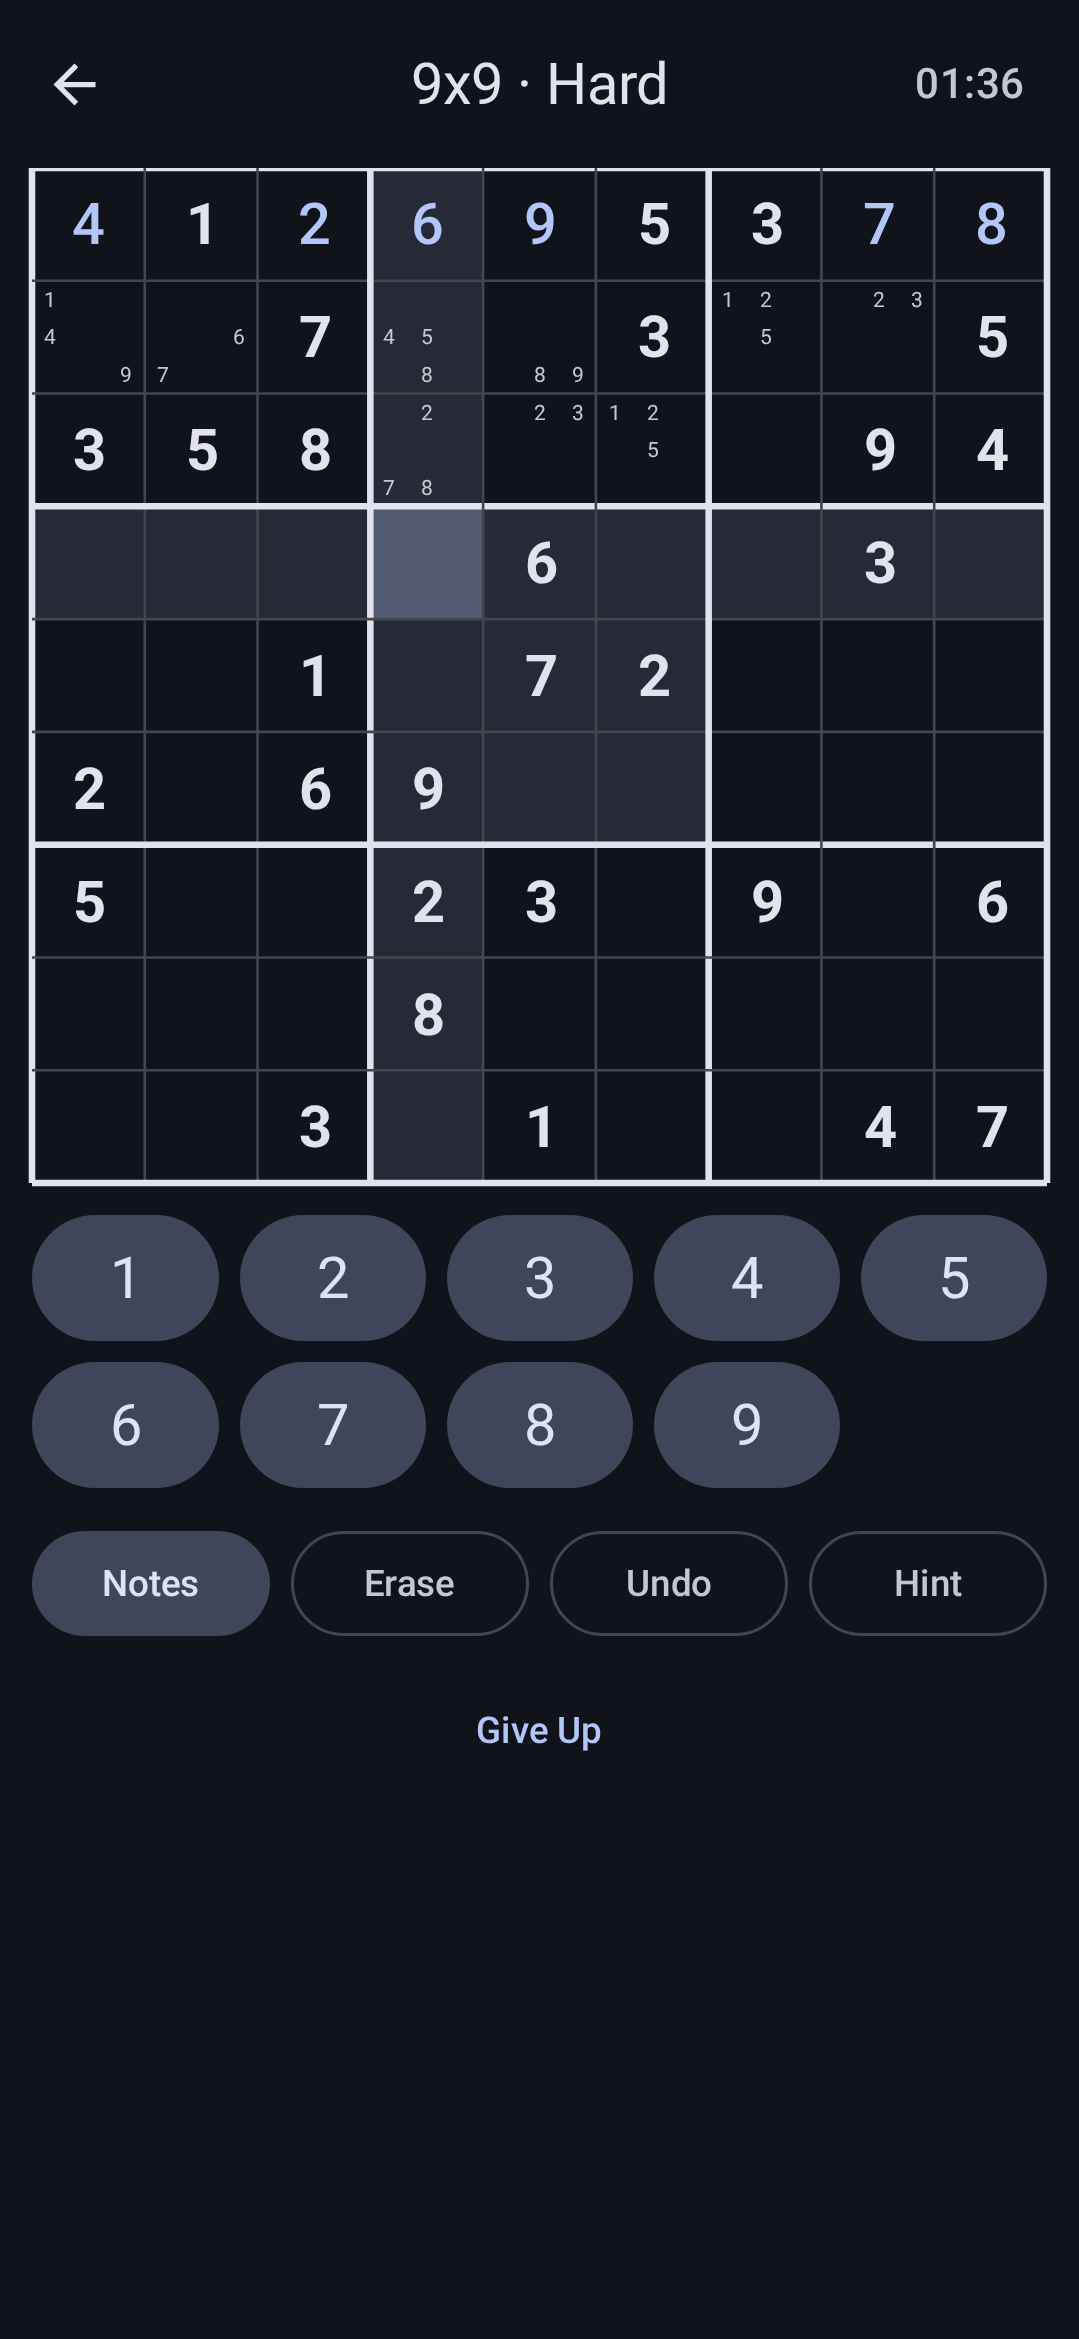
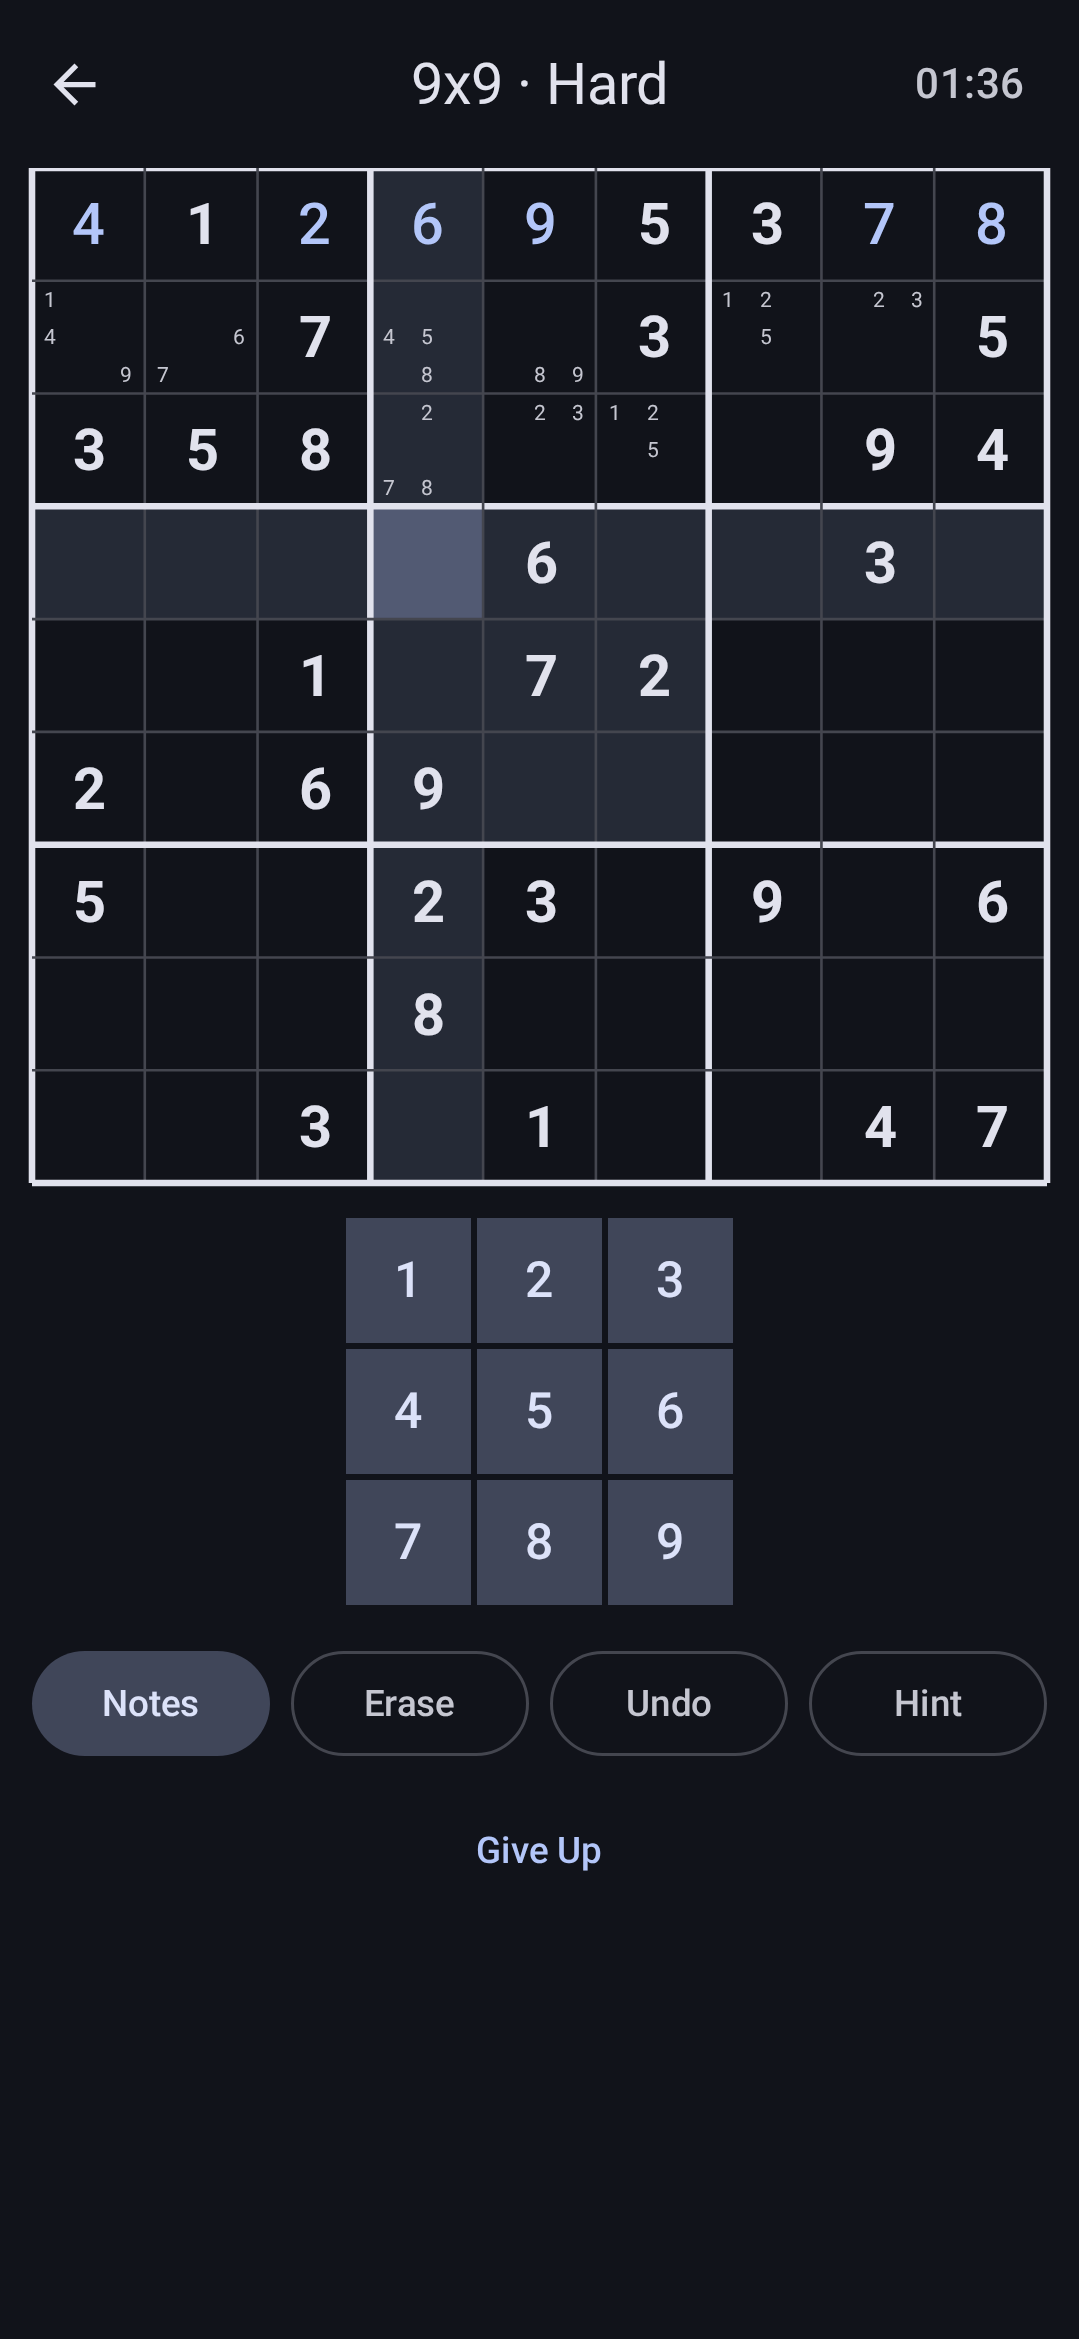
sudoku: replace 4x4 with 12x12 and make the pad a real grid

diff --git a/games/sudoku/src/main/java/com/vayunmathur/games/sudoku/ui/components/NumberPad.kt b/games/sudoku/src/main/java/com/vayunmathur/games/sudoku/ui/components/NumberPad.kt
@@ -1,27 +1,39 @@
 package com.vayunmathur.games.sudoku.ui.components
 
-import androidx.compose.foundation.layout.Arrangement
+import androidx.compose.foundation.border
 import androidx.compose.foundation.layout.Column
+import androidx.compose.foundation.layout.PaddingValues
 import androidx.compose.foundation.layout.Row
-import androidx.compose.foundation.layout.fillMaxWidth
+import androidx.compose.foundation.layout.size
 import androidx.compose.runtime.Composable
+import androidx.compose.ui.Alignment
 import androidx.compose.ui.Modifier
+import androidx.compose.ui.graphics.RectangleShape
+import androidx.compose.ui.unit.dp
 import androidx.compose.ui.unit.sp
 import com.vayunmathur.games.sudoku.data.SudokuGameState
+import com.vayunmathur.games.sudoku.data.sudokuSymbol
 import com.vayunmathur.library.ui.Button
-import com.vayunmathur.library.ui.ButtonDefaults
 import com.vayunmathur.library.ui.FilledTonalButton
 import com.vayunmathur.library.ui.MaterialTheme
-import com.vayunmathur.library.ui.Spacing
 import com.vayunmathur.library.ui.Text
 
 /**
- * The digit keys.
+ * The digit keys, laid out as a grid in the board's own box shape.
  *
- * A digit that has been placed as many times as the board is wide is disabled rather than hidden,
- * so the keys never reflow under the player's thumb mid-game. Notes mode keeps every digit enabled,
- * because a pencil mark for a finished digit is still a legitimate thing to jot down while ruling
- * it out.
+ * Reusing [SudokuGameState.size]'s box geometry means the pad is a miniature of a box — 2x3 for 6x6,
+ * 3x3 for 9x9, 3x4 for 12x12 — so a digit sits in the same relative position on the pad as it does in
+ * the pencil marks.
+ *
+ * Keys are fixed-size squares packed flush against each other rather than stretched across the width:
+ * a full-width grid would give keys around 90dp across on a 12x12, which crowds out the board. A
+ * hairline in the background colour separates them, so the block reads as distinct keys without
+ * needing gaps.
+ *
+ * A digit that has been placed as many times as the board is wide is disabled rather than hidden, so
+ * the keys never reflow under the player's thumb mid-game. Notes mode keeps every digit enabled,
+ * because a pencil mark for a finished digit is still a legitimate thing to jot down while ruling it
+ * out.
  */
 @Composable
 fun NumberPad(
@@ -29,33 +41,21 @@ fun NumberPad(
     onDigit: (Int) -> Unit,
     modifier: Modifier = Modifier,
 ) {
-    val side = game.size.side
-    // 4 and 6 fit one row; 9 splits so the keys stay wide enough to hit.
-    val perRow = if (side > 6) 5 else side
-    Column(modifier, verticalArrangement = Arrangement.spacedBy(Spacing.sm)) {
-        var digit = 1
-        while (digit <= side) {
-            val rowEnd = minOf(digit + perRow - 1, side)
-            Row(
-                Modifier.fillMaxWidth(),
-                horizontalArrangement = Arrangement.spacedBy(Spacing.sm),
-            ) {
-                for (d in digit..rowEnd) {
-                    val exhausted = !game.notesMode && game.placedCount(d) >= side
+    val size = game.size
+    Column(modifier, horizontalAlignment = Alignment.CenterHorizontally) {
+        for (row in 0 until size.boxRows) {
+            Row {
+                for (col in 0 until size.boxCols) {
+                    val digit = row * size.boxCols + col + 1
                     DigitKey(
-                        digit = d,
-                        enabled = !exhausted && !game.isWon,
+                        digit = digit,
+                        enabled = !game.isWon &&
+                            (game.notesMode || game.placedCount(digit) < size.side),
                         highlighted = game.notesMode,
-                        onClick = { onDigit(d) },
-                        modifier = Modifier.weight(1f),
+                        onClick = { onDigit(digit) },
                     )
                 }
-                // Keeps the last row's keys the same width as a full row's.
-                repeat(perRow - (rowEnd - digit + 1)) {
-                    Column(Modifier.weight(1f)) {}
-                }
             }
-            digit = rowEnd + 1
         }
     }
 }
@@ -66,28 +66,34 @@ private fun DigitKey(
     enabled: Boolean,
     highlighted: Boolean,
     onClick: () -> Unit,
-    modifier: Modifier = Modifier,
 ) {
+    val shared = Modifier
+        .size(KeySize)
+        // Drawn in the background colour, so it separates neighbouring keys without adding a gap.
+        .border(HairlineWidth, MaterialTheme.colorScheme.background)
     val label = @Composable {
-        Text(
-            text = digit.toString(),
-            style = MaterialTheme.typography.headlineSmall,
-            fontSize = 22.sp,
-        )
+        Text(text = sudokuSymbol(digit), fontSize = 19.sp)
     }
     if (highlighted) {
         FilledTonalButton(
             onClick = onClick,
-            modifier = modifier,
+            modifier = shared,
             enabled = enabled,
-            contentPadding = ButtonDefaults.TextButtonContentPadding,
+            shape = RectangleShape,
+            contentPadding = PaddingValues(0.dp),
         ) { label() }
     } else {
         Button(
             onClick = onClick,
-            modifier = modifier,
+            modifier = shared,
             enabled = enabled,
-            contentPadding = ButtonDefaults.TextButtonContentPadding,
+            shape = RectangleShape,
+            contentPadding = PaddingValues(0.dp),
         ) { label() }
     }
 }
+
+/** Comfortably above the 48dp touch target once the hairline is accounted for, and no larger. */
+private val KeySize = 50.dp
+
+private val HairlineWidth = 1.dp

diff --git a/games/sudoku/src/main/java/com/vayunmathur/games/sudoku/data/SudokuModels.kt b/games/sudoku/src/main/java/com/vayunmathur/games/sudoku/data/SudokuModels.kt
@@ -5,16 +5,16 @@ import kotlinx.serialization.Serializable
 /**
  * The three board shapes on offer, each with the box geometry that goes with it.
  *
- * [boxRows] x [boxCols] must equal [side], because a Sudoku box has to hold exactly as many cells
- * as a row does — that is what makes "every digit once per box" the same strength of constraint as
- * "every digit once per row". 6x6 is the only asymmetric one (2 rows of 3), which is why the box
+ * [boxRows] x [boxCols] must equal [side], because a Sudoku box has to hold exactly as many cells as a
+ * row does — that is what makes "every digit once per box" the same strength of constraint as "every
+ * digit once per row". Only 9x9 has square boxes; 6x6 uses 2x3 and 12x12 uses 3x4, which is why the box
  * dimensions are stored rather than derived from a square root.
  */
 @Serializable
 enum class BoardSize(val side: Int, val boxRows: Int, val boxCols: Int) {
-    FOUR(4, 2, 2),
     SIX(6, 2, 3),
-    NINE(9, 3, 3);
+    NINE(9, 3, 3),
+    TWELVE(12, 3, 4);
 
     val cellCount: Int get() = side * side
 
@@ -27,13 +27,23 @@ enum class BoardSize(val side: Int, val boxRows: Int, val boxCols: Int) {
 }
 
 /**
+ * The character shown for [digit], which is 1-based.
+ *
+ * Past nine the symbols become letters. A 12x12 cell has to fit a pencil-mark grid of twelve
+ * candidates, and "10", "11", "12" at that size are illegible; one character each keeps both the
+ * entered digit and the marks readable. The solver and generator only ever deal in the numbers.
+ */
+fun sudokuSymbol(digit: Int): String =
+    if (digit <= 9) digit.toString() else ('A' + digit - 10).toString()
+
+/**
  * How many cells the generator leaves filled in.
  *
  * The clue counts are fractions of the board rather than absolute numbers so one difficulty means
- * roughly the same amount of deduction on a 4x4 as on a 9x9. [clueFraction] is a target, not a
- * guarantee: digging stops early if removing any remaining clue would leave the puzzle with more
- * than one solution, so an EXPERT 4x4 often lands well above its target simply because tiny grids
- * run out of removable cells.
+ * roughly the same amount of deduction on a 6x6 as on a 12x12. [clueFraction] is a target, not a
+ * guarantee: digging stops early if removing any remaining clue would leave the puzzle with more than
+ * one solution, so a small board often lands well above its target simply because it runs out of
+ * removable cells.
  */
 @Serializable
 enum class Difficulty(val clueFraction: Double) {

diff --git a/games/sudoku/src/main/java/com/vayunmathur/games/sudoku/ui/components/SudokuGrid.kt b/games/sudoku/src/main/java/com/vayunmathur/games/sudoku/ui/components/SudokuGrid.kt
@@ -27,6 +27,7 @@ import androidx.compose.ui.unit.sp
 import com.vayunmathur.games.sudoku.R
 import com.vayunmathur.games.sudoku.data.BoardSize
 import com.vayunmathur.games.sudoku.data.SudokuGameState
+import com.vayunmathur.games.sudoku.data.sudokuSymbol
 import com.vayunmathur.library.ui.MaterialTheme
 import com.vayunmathur.library.ui.Text
 import androidx.compose.ui.res.stringResource
@@ -113,7 +114,7 @@ private fun SudokuCell(
     // wrong-cell colour because a wrong digit is refused rather than written.
     val digitColor = if (given) scheme.onSurface else scheme.primary
 
-    val spoken = if (value == 0) stringResource(R.string.cd_empty) else value.toString()
+    val spoken = if (value == 0) stringResource(R.string.cd_empty) else sudokuSymbol(value)
     val side = game.size.side
     val description =
         stringResource(R.string.cd_cell, index / side + 1, index % side + 1, spoken)
@@ -125,7 +126,7 @@ private fun SudokuCell(
     ) {
         when {
             value != 0 -> Text(
-                text = value.toString(),
+                text = sudokuSymbol(value),
                 color = digitColor,
                 // Sized from the cell so a 4x4 does not render tiny digits in large squares.
                 fontSize = (game.size.digitScale * 22).sp,
@@ -166,7 +167,7 @@ private fun NoteMarks(size: BoardSize, mask: Int) {
                     ) {
                         if (mask and (1 shl (digit - 1)) != 0) {
                             Text(
-                                text = digit.toString(),
+                                text = sudokuSymbol(digit),
                                 color = MaterialTheme.colorScheme.onSurfaceVariant,
                                 fontSize = (size.digitScale * 8).sp,
                                 lineHeight = (size.digitScale * 9).sp,
@@ -215,10 +216,10 @@ private fun Modifier.drawGridLines(
     }
 }
 
-/** Scales type with the board: a 4x4 cell is more than twice the width of a 9x9 cell. */
+/** Scales type with the board: a 6x6 cell is twice the width of a 12x12 cell. */
 private val BoardSize.digitScale: Float
     get() = when (this) {
-        BoardSize.FOUR -> 1.6f
         BoardSize.SIX -> 1.25f
         BoardSize.NINE -> 1f
+        BoardSize.TWELVE -> 0.78f
     }

diff --git a/games/sudoku/src/test/java/com/vayunmathur/games/sudoku/domain/SudokuGenerationCostTest.kt b/games/sudoku/src/test/java/com/vayunmathur/games/sudoku/domain/SudokuGenerationCostTest.kt
@@ -1,0 +1,50 @@
+package com.vayunmathur.games.sudoku.domain
+
+import com.vayunmathur.games.sudoku.data.BoardSize
+import com.vayunmathur.games.sudoku.data.Difficulty
+import kotlin.random.Random
+import kotlin.system.measureTimeMillis
+import kotlin.test.Test
+import kotlin.test.assertTrue
+
+/**
+ * Guards the cost of generation.
+ *
+ * Puzzles are dug on device, one uniqueness check per removed clue, and the board shows a spinner until
+ * that finishes. 12x12 Expert is the worst case by a wide margin: 144 cells, the loosest clue target,
+ * and non-square boxes. If this ever creeps into seconds the fix is to raise that difficulty's clue
+ * fraction, not to let players stare at a spinner.
+ */
+class SudokuGenerationCostTest {
+
+    @Test
+    fun theWorstCaseBoardGeneratesQuickly() {
+        val elapsed = measureTimeMillis {
+            SudokuGenerator.generate(BoardSize.TWELVE, Difficulty.EXPERT, Random(1))
+        }
+        assertTrue(elapsed < BUDGET_MILLIS, "12x12 Expert took ${elapsed}ms, budget ${BUDGET_MILLIS}ms")
+    }
+
+    @Test
+    fun everySizeAndDifficultyStaysWithinBudget() {
+        for (size in BoardSize.entries) {
+            for (difficulty in Difficulty.entries) {
+                val elapsed = measureTimeMillis {
+                    SudokuGenerator.generate(size, difficulty, Random(7))
+                }
+                assertTrue(
+                    elapsed < BUDGET_MILLIS,
+                    "${size.name}/${difficulty.name} took ${elapsed}ms, budget ${BUDGET_MILLIS}ms",
+                )
+            }
+        }
+    }
+
+    private companion object {
+        /**
+         * Generous enough not to flake on a loaded CI machine, tight enough that a real regression -
+         * the kind that makes the largest board unplayable - still trips it.
+         */
+        const val BUDGET_MILLIS = 4_000L
+    }
+}

diff --git a/games/sudoku/src/test/java/com/vayunmathur/games/sudoku/domain/SudokuSolverTest.kt b/games/sudoku/src/test/java/com/vayunmathur/games/sudoku/domain/SudokuSolverTest.kt
@@ -39,7 +39,7 @@ class SudokuSolverTest {
 
     @Test
     fun contradictoryGridHasNoSolution() {
-        val size = BoardSize.FOUR
+        val size = BoardSize.SIX
         // Two 1s in the same row cannot both be right.
         val grid = blank(size).toMutableList().also {
             it[0] = 1
@@ -51,7 +51,7 @@ class SudokuSolverTest {
 
     @Test
     fun emptyGridHasManySolutions() {
-        val size = BoardSize.FOUR
+        val size = BoardSize.SIX
         // Capped at 2: the point is only that it is not unique.
         assertEquals(2, SudokuSolver(size).countSolutions(blank(size)))
     }
@@ -65,13 +65,14 @@ class SudokuSolverTest {
 
     @Test
     fun countStopsAtTheGivenLimit() {
-        val size = BoardSize.FOUR
+        val size = BoardSize.SIX
         assertEquals(1, SudokuSolver(size).countSolutions(blank(size), limit = 1))
         // Subtree totals are added whole, so the result can overshoot the limit - it is a
         // "found at least this many" answer, which is all the uniqueness check needs.
         val capped = SudokuSolver(size).countSolutions(blank(size), limit = 5)
         assertTrue(capped >= 5, "expected at least 5, got $capped")
-        assertTrue(capped < 288, "should have stopped well short of all 288 solutions, got $capped")
+        // A 6x6 has 28,800 completions, so stopping early has to bite well short of that.
+        assertTrue(capped < 1_000, "should have stopped early, got $capped")
     }
 
     @Test

diff --git a/games/sudoku/src/screenshotTest/kotlin/com/vayunmathur/games/sudoku/MetadataPreviews.kt b/games/sudoku/src/screenshotTest/kotlin/com/vayunmathur/games/sudoku/MetadataPreviews.kt
@@ -62,9 +62,26 @@ class MetadataPreviews {
     }
 
     @PreviewTest
-    @Preview(name = "3-small", device = PHONE, showSystemUi = true)
+    @Preview(name = "3-twelve", device = PHONE, showSystemUi = true)
     @Composable
-    fun Preview3Small() {
+    fun Preview3Twelve() {
+        // The largest board, where digits past nine are lettered and the pad becomes a 3x4 grid.
+        Board(
+            game(
+                size = BoardSize.TWELVE,
+                difficulty = Difficulty.MEDIUM,
+                seed = 1212,
+                filled = 18,
+                selected = 40,
+                elapsed = 604,
+            )
+        )
+    }
+
+    @PreviewTest
+    @Preview(name = "4-six", device = PHONE, showSystemUi = true)
+    @Composable
+    fun Preview4Six() {
         Board(
             game(
                 size = BoardSize.SIX,
@@ -78,9 +95,9 @@ class MetadataPreviews {
     }
 
     @PreviewTest
-    @Preview(name = "4-solved", device = PHONE, showSystemUi = true)
+    @Preview(name = "5-solved", device = PHONE, showSystemUi = true)
     @Composable
-    fun Preview4Solved() {
+    fun Preview5Solved() {
         val base = game(BoardSize.NINE, Difficulty.EXPERT, seed = 2024, filled = 0, elapsed = 511)
         Board(base.copy(entries = base.blanksFilled(), isWon = true))
     }

diff --git a/games/sudoku/src/test/java/com/vayunmathur/games/sudoku/data/SudokuGameStateTest.kt b/games/sudoku/src/test/java/com/vayunmathur/games/sudoku/data/SudokuGameStateTest.kt
@@ -9,7 +9,7 @@ import kotlin.test.assertTrue
 
 class SudokuGameStateTest {
 
-    private val puzzle = SudokuGenerator.generate(BoardSize.FOUR, Difficulty.EASY, Random(1))
+    private val puzzle = SudokuGenerator.generate(BoardSize.SIX, Difficulty.EASY, Random(1))
     private val fresh = SudokuGameState.from(puzzle)
 
     /** A cell the player is allowed to fill in. */

diff --git a/games/sudoku/src/main/java/com/vayunmathur/games/sudoku/ui/DisplayNames.kt b/games/sudoku/src/main/java/com/vayunmathur/games/sudoku/ui/DisplayNames.kt
@@ -13,9 +13,9 @@ import com.vayunmathur.games.sudoku.data.Difficulty
 @Composable
 fun BoardSize.displayName(): String = stringResource(
     when (this) {
-        BoardSize.FOUR -> R.string.size_four
         BoardSize.SIX -> R.string.size_six
         BoardSize.NINE -> R.string.size_nine
+        BoardSize.TWELVE -> R.string.size_twelve
     }
 )
 

diff --git a/metadata_data/games-sudoku.md b/metadata_data/games-sudoku.md
@@ -2,5 +2,5 @@ A classic number puzzle, generated fresh every game
 
 Pick a board size and a difficulty and play a puzzle generated on the spot. Every
 puzzle has exactly one solution, so it can always be finished by reasoning alone,
-and a digit that does not belong simply will not go in. Includes 4x4, 6x6 and 9x9
-grids, pencil marks, hints and undo.
+and a digit that does not belong simply will not go in. Includes 6x6, 9x9 and
+12x12 grids, pencil marks, hints and undo.
